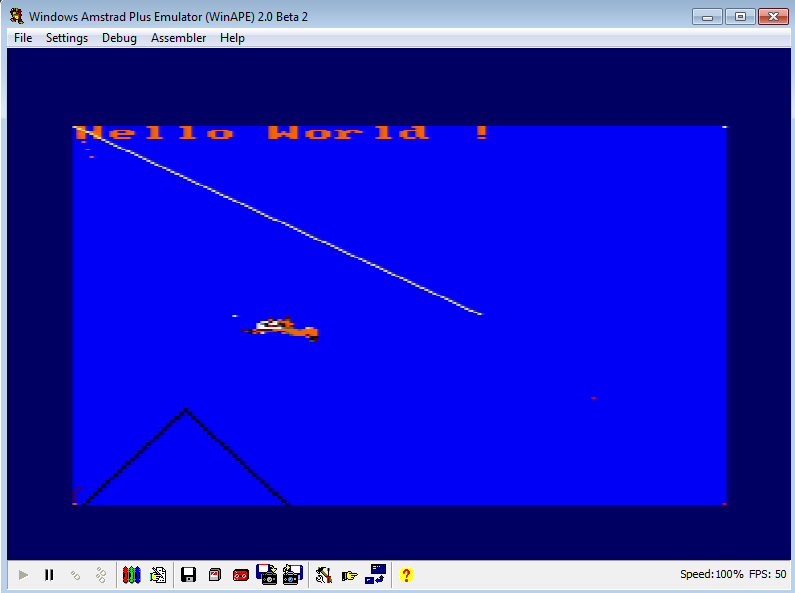
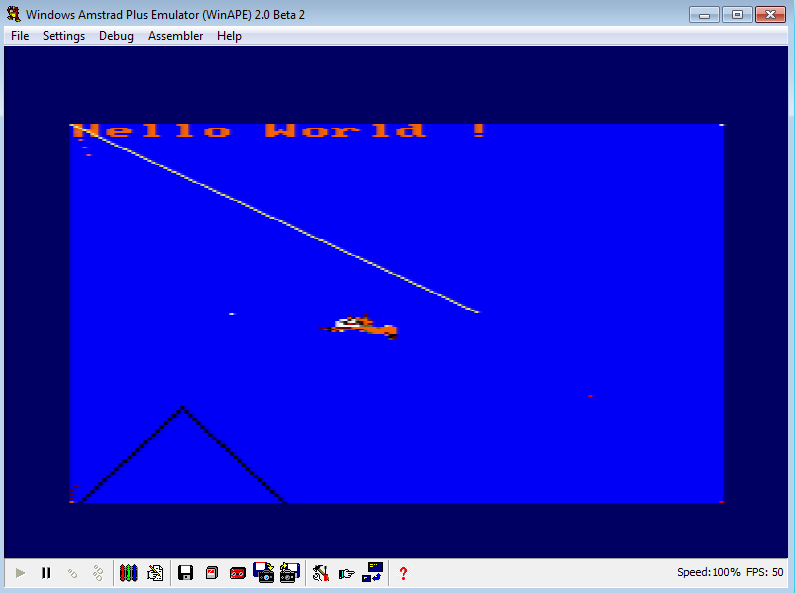
JDVA#5 test

diff --git a/JDVA#5_test/hello.c b/JDVA#5_test/hello.c
@@ -168,7 +168,7 @@ void main(void)
 	set_palette(azrael_palette);
 	while(1){
 		for (c=0;c<15;c=c+1) {
-			put_frame(vram(20,100),10,16,chats[c]);
+			put_frame(vram(30,100),10,16,chats[c]);
 			for (d=0;d<30000;d=d+1) {}
 		}
 		
